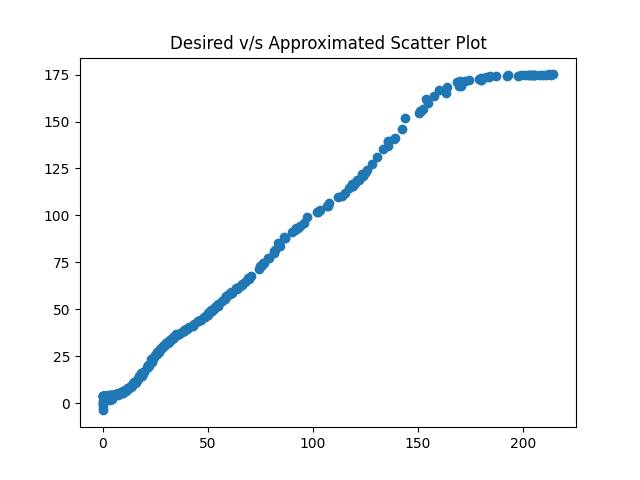
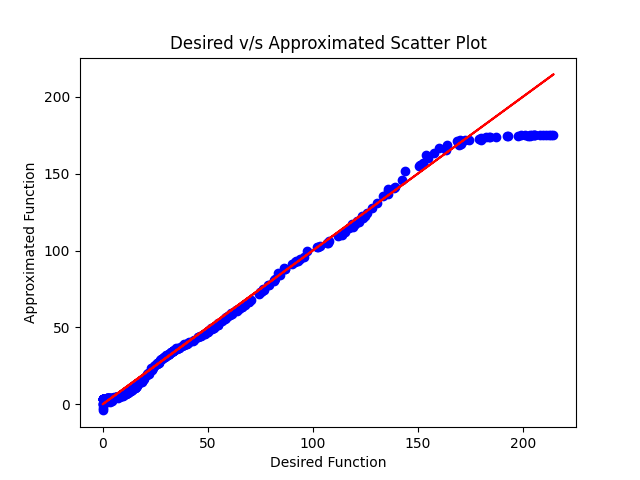
Plots done

diff --git a/Assignment_1/Task_1/plot.py b/Assignment_1/Task_1/plot.py
@@ -5,15 +5,16 @@ from dataset import function_dataset
 from model import function_approximation
 import numpy as np
 import matplotlib.pyplot as plt
+from matplotlib import cm
+import pandas as pd
+
+df = pd.read_csv('dataset/func_app1.csv')
 
 dir = "plots/"
 
-device = 'cuda' if torch.cuda.is_available() else 'cpu'
+#device = 'cuda' if torch.cuda.is_available() else 'cpu'
+device = 'cpu'
 
-
-
-def gen_plots(model,name):
-    return None
 
 
 train_dataset = function_dataset("dataset/train.csv")
@@ -26,6 +27,30 @@ valid_dataset = function_dataset("dataset/validation.csv")
 valid_loader = DataLoader(valid_dataset)
 
 
+def gen_plots(model,epoch):
+    x1 = np.arange(0,6,0.25,dtype="float32")
+    x2 = np.arange(0,6,0.25,dtype="float32")
+    x1,x2 = np.meshgrid(x1,x2)
+
+    y = np.zeros(x1.shape)
+
+    for i in range(x1.shape[0]):
+        for j in range(x1.shape[1]):
+
+            output = model(torch.tensor([x1[i][j],x2[i][j]]))
+            y[i][j]= output
+    
+    f = plt.figure()
+    ax = plt.axes(projection='3d')
+    surf = ax.plot_surface(x1, x2, y, cmap = cm.jet, linewidth=0, antialiased=False)
+    f.colorbar(surf, shrink=0.5, aspect=10)
+    ax.set_title(f'Approximated Function after {epoch} Epochs')
+    ax.set_xlabel('x1')
+    ax.set_ylabel('x2')
+    plt.savefig(dir+'epoch'+f'{epoch}'+"_approximated.png")
+    plt.show()
+
+
 # Plot of loss variation with epoch
 losses = []
 with open("losses.txt","r") as f:
@@ -36,9 +61,12 @@ with open("losses.txt","r") as f:
 epochs = np.arange(1,len(losses)+1,1)
 losses = np.array(losses)
 f = plt.figure()
-plt.title("Loss v/s epoch")
+plt.title("Loss v/s Epoch")
 plt.plot(epochs,losses)
+plt.xlabel('Epochs')
+plt.ylabel('Loss')
 plt.savefig(dir+"loss.png")
+plt.show()
 plt.close(f)
 
 
@@ -61,17 +89,31 @@ for batch_idx, (data, target) in enumerate(train_loader):
 desired = np.array(desired)
 approximated = np.array(approximated)
 
+
 f = plt.figure()
 plt.title("Desired v/s Approximated Scatter Plot")
-
-plt.scatter(desired,approximated)
+plt.scatter(desired, approximated, c='b', linewidths=1)
+plt.plot(desired, desired, 'r')
+plt.xlabel('Desired Function')
+plt.ylabel('Approximated Function')
 plt.savefig(dir+"scatter.png")
+plt.show()
 plt.close(f)
 
 
+f = plt.figure()
+ax = plt.axes(projection='3d')
+surf = ax.plot_trisurf(df.iloc[:,0], df.iloc[:,1], df.iloc[:,2], cmap=cm.jet, linewidth=0, antialiased=False)
+f.colorbar(surf, shrink=0.5, aspect=10)
+ax.set_title(f'Desired Function')
+ax.set_xlabel('x1')
+ax.set_ylabel('x2')
+ax.set_zlabel('Desired Function')
+plt.savefig(dir+"desired.png")
+plt.show()
+
 
 for epoch in [1,2,10,50,350]:
-    
     model = function_approximation().to(device)
     model.load_state_dict(torch.load(f"epoch{str(epoch)}.pt",map_location=device))
-    gen_plots(model,dir+"epoch"+str(epoch))
+    gen_plots(model,epoch)

diff --git a/Assignment_1/Task_1/dataset.py b/Assignment_1/Task_1/dataset.py
@@ -25,9 +25,11 @@ def test():
     train_dataset = function_dataset(data_dir='dataset/func_app1.csv')
     train_data, train_label = train_dataset[5]
     
-    print(train_data)
-    print(train_label)
-    print(train_data.shape)
-    print(train_label.shape)
+    # print(train_data)
+    # print(train_label)
+    # print(train_data.shape)
+    # print(train_label.shape)
+
+    print(train_dataset[:][0][:,0].shape)
 
 #test()
